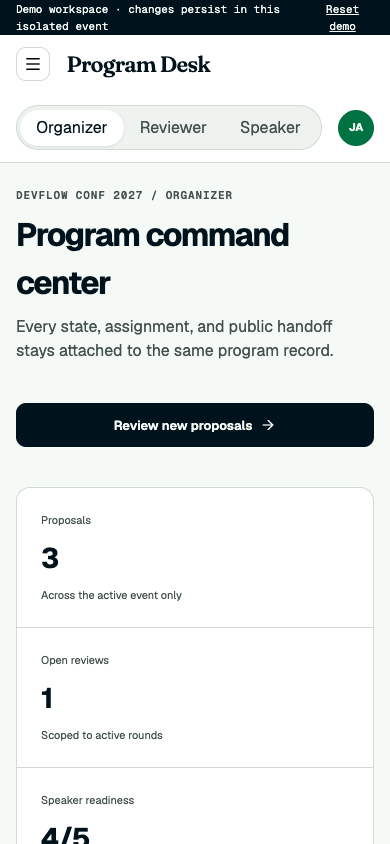
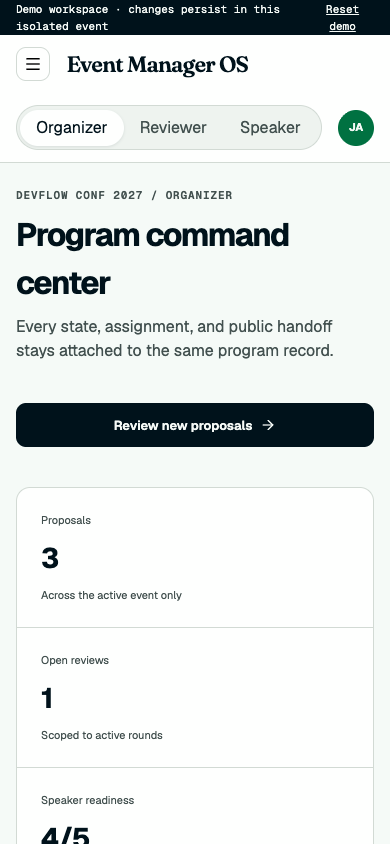
Rename the product to Event Manager OS
Renames every surface a reader meets: the workspace wordmark, the public
footer, page titles and metadata, the API document and calendar PRODID,
submission and sign-in mail, the seeded templates, README, and the judge
walkthrough.

Two identifiers deliberately keep the old name. The D1 database_name is the
real database in Cloudflare and renaming it breaks the binding. The worker
name is the deployed hostname, and changing it would stand up a second
worker at a new URL while the old one kept serving stale code — two live
sites hours before a deadline, with the wrong one still reachable by
anyone holding the existing link.

Changed region(s): [[0.1846, 0.0616, 0.6462, 0.0924]]

diff --git a/src/workspace/PublishPanel.tsx b/src/workspace/PublishPanel.tsx
@@ -40,7 +40,7 @@ export function PublishPanel({ eventSlug }: { eventSlug: string }) {
       <div className="embed-code"><code>{snippet}</code></div><div className="surface-actions"><a className="button button-quiet button-small" href={url} target="_blank" rel="noreferrer">Open public <ExternalLink size={13} /></a>
         <button className="button button-quiet button-small" onClick={() => regenerate(type, name)}><RefreshCcw size={13} /> Regenerate</button></div></article>; })}</section>
     <section className="panel-card embed-settings"><Palette size={18} /><div><strong>Embed configuration is stored per surface</strong><p>These controls are saved with the next generated widget and remain retrievable with its snippet.</p></div><a className="button button-quiet button-small" href={`/api/public/${eventSlug}/feed/sessions`} target="_blank" rel="noreferrer">Open JSON feed <ExternalLink size={13} /></a>
-      <div className="embed-builder-controls"><label>Accent color<input aria-label="Embed accent color" type="color" value={accent} onChange={(event) => setAccent(event.target.value)} /></label><label>Track filter<select value={trackFilter} onChange={(event) => setTrackFilter(event.target.value)}><option value="all">All tracks</option>{resource.data.tracks.map((track) => <option key={track.id} value={track.id}>{track.name}</option>)}</select></label><label className="check-label"><input type="checkbox" checked={showBranding} onChange={(event) => setShowBranding(event.target.checked)} /> Show Program Desk branding</label>
+      <div className="embed-builder-controls"><label>Accent color<input aria-label="Embed accent color" type="color" value={accent} onChange={(event) => setAccent(event.target.value)} /></label><label>Track filter<select value={trackFilter} onChange={(event) => setTrackFilter(event.target.value)}><option value="all">All tracks</option>{resource.data.tracks.map((track) => <option key={track.id} value={track.id}>{track.name}</option>)}</select></label><label className="check-label"><input type="checkbox" checked={showBranding} onChange={(event) => setShowBranding(event.target.checked)} /> Show Event Manager OS branding</label>
         <fieldset><legend>Visible fields</legend>{["title", "speaker", "track", "room", "format", "description"].map((field) => <label className="check-label" key={field}><input type="checkbox" checked={visibleFields.includes(field)} onChange={() => setVisibleFields((current) => current.includes(field) ? current.filter((item) => item !== field) : [...current, field])} /> {field}</label>)}</fieldset></div></section>
   </div>;
 }

diff --git a/src/workspace/CommunicationsPanel.tsx b/src/workspace/CommunicationsPanel.tsx
@@ -24,7 +24,7 @@ export function CommunicationsPanel() {
         <span><strong>{item.name}</strong><small>{item.subject}</small></span><span><StatusChip value={item.delivery_mode} /><small>{item.enabled ? "Enabled" : "Disabled"}</small></span></button>)}</section>
     <section className="panel-card template-editor">{template ? <TemplateEditor key={String(template.id)} template={template} onSaved={async (text) => { setMessage(text); await resource.reload(); }} /> : null}</section>
     <section className="panel-card preview-panel"><header><p className="eyebrow">Live preview</p><h2>{template?.subject.replaceAll("{proposal_title}", "Taming 40-Minute CI").replaceAll("{session_title}", "Taming 40-Minute CI")}</h2></header>
-      <div className="email-preview"><div><span className="avatar">PR</span><span><strong>Program Desk</strong><small>to Priya Raman</small></span></div><p>{String(template?.body ?? "").replaceAll("{speaker_name}", "Priya").replaceAll("{proposal_title}", "Taming 40-Minute CI").replaceAll("{session_title}", "Taming 40-Minute CI").replaceAll("{assignment_count}", "4").replaceAll("{deadline}", "October 15")}</p></div>
+      <div className="email-preview"><div><span className="avatar">PR</span><span><strong>Event Manager OS</strong><small>to Priya Raman</small></span></div><p>{String(template?.body ?? "").replaceAll("{speaker_name}", "Priya").replaceAll("{proposal_title}", "Taming 40-Minute CI").replaceAll("{session_title}", "Taming 40-Minute CI").replaceAll("{assignment_count}", "4").replaceAll("{deadline}", "October 15")}</p></div>
     </section>
     <section className="panel-card outbox-panel"><header className="section-toolbar"><div><p className="eyebrow">Communication log</p><h2>Outbox receipts</h2></div><Send size={18} /></header>
       {resource.data.communications.length ? <div className="outbox-list">{resource.data.communications.map((item) => <article key={item.id}><MessageSquareText size={16} /><span><strong>{item.subject}</strong><small>{item.recipient_email} · {formatDateTime(item.sent_at ?? item.created_at)}</small></span><StatusChip value={item.status} /></article>)}</div> : <EmptyBlock title="Nothing sent yet">Decision notifications, reminders, and broadcasts will appear here.</EmptyBlock>}

diff --git a/src/workspace/IntegrationsPanel.tsx b/src/workspace/IntegrationsPanel.tsx
@@ -111,7 +111,7 @@ export function IntegrationsPanel() {
           {simulation ? <CloudOff size={17} /> : <CheckCircle2 size={17} />}<span><strong>{simulation ? "SIM · local destination mirror" : "LIVE · external delivery"}</strong><small>{simulation ? "Apply records deterministic receipts without contacting Accelevents." : "Apply will use the configured Worker secret."}</small></span>
         </div>
         {preview?.items.length ? <div className="integration-items">{preview.items.map((item) => <article key={`${item.recordType}-${item.sourceId}`}><span className="integration-kind">{item.recordType}</span><span><strong>{item.sourceId}</strong><small>{item.diff.length ? `${item.diff.length} mapped field changes` : "Payload unchanged"}</small></span><StatusChip value={item.action === "skip" ? "no-op" : item.action} />{item.unsupportedFields.length ? <p><TriangleAlert size={13} /> Confirm {item.unsupportedFields.join(", ")} in the destination.</p> : null}</article>)}</div> : null}
-        <footer className="integration-actions"><small>Removed records become reconciliation warnings. Program Desk never silently deletes the destination copy.</small><div><button className="button button-quiet" type="button" disabled={busy || !resource.data.connection} onClick={createPreview}><RefreshCcw size={15} /> Create mutation-free preview</button><button className="button button-accent" type="button" disabled={busy || !applicableRunId} onClick={applyPreview}>Apply approved preview <ArrowRight size={15} /></button></div></footer>
+        <footer className="integration-actions"><small>Removed records become reconciliation warnings. Event Manager OS never silently deletes the destination copy.</small><div><button className="button button-quiet" type="button" disabled={busy || !resource.data.connection} onClick={createPreview}><RefreshCcw size={15} /> Create mutation-free preview</button><button className="button button-accent" type="button" disabled={busy || !applicableRunId} onClick={applyPreview}>Apply approved preview <ArrowRight size={15} /></button></div></footer>
       </section>
     </section>
 

diff --git a/src/screens/PublicEvent.tsx b/src/screens/PublicEvent.tsx
@@ -17,7 +17,7 @@ export function PublicEvent() {
   if (resource.error) return <ErrorBlock message={resource.error} />;
   if (!resource.data) return null;
   return <div className="public-shell">
-    <header className="public-header"><div className="public-brand"><Link className="wordmark" to="/">Program Desk</Link><span /><Link to={`/events/${slug}/agenda`}><strong>{resource.data.event.name}</strong><small>{formatDate(resource.data.event.starts_on)}–{formatDate(resource.data.event.ends_on)} · {resource.data.event.location}</small></Link></div>
+    <header className="public-header"><div className="public-brand"><Link className="wordmark" to="/">Event Manager OS</Link><span /><Link to={`/events/${slug}/agenda`}><strong>{resource.data.event.name}</strong><small>{formatDate(resource.data.event.starts_on)}–{formatDate(resource.data.event.ends_on)} · {resource.data.event.location}</small></Link></div>
       <Link className="button button-quiet button-small" to="/login">Organizer / participant sign in</Link></header>
     <nav className="public-nav" aria-label="Public event pages">{publicNav.map(([id, label]) => <button key={id} aria-current={surface === id ? "page" : undefined} onClick={() => navigate(`/events/${slug}/${id}`)}>{label}</button>)}</nav>
     <main className="public-main">
@@ -28,7 +28,7 @@ export function PublicEvent() {
       {surface === "agenda" ? <AgendaSurface data={resource.data} /> : null}
       {surface === "itinerary" ? <ItinerarySurface data={resource.data} slug={slug} /> : null}
     </main>
-    <footer className="public-footer"><span>Published from one approved Program Desk record.</span><Link to="/">Powered by Program Desk <ExternalLink size={12} /></Link></footer>
+    <footer className="public-footer"><span>Published from one approved Event Manager OS record.</span><Link to="/">Powered by Event Manager OS <ExternalLink size={12} /></Link></footer>
   </div>;
 }
 

diff --git a/src/screens/Workspace.tsx b/src/screens/Workspace.tsx
@@ -126,7 +126,7 @@ export function Workspace() {
     {data.session.isDemo ? <div className="demo-banner"><span><Sparkles size={14} /> Demo workspace · changes persist in this isolated event</span><button type="button" disabled={pending} onClick={resetDemo}>Reset demo</button></div> : null}
     <header className="app-topbar">
       <div className="brand-cluster"><button className="mobile-menu-button" onClick={() => setMobileNav((value) => !value)} aria-label="Open workspace navigation"><Menu size={18} /></button>
-        <Link className="wordmark" to="/app">Program Desk</Link><span className="topbar-rule" />
+        <Link className="wordmark" to="/app">Event Manager OS</Link><span className="topbar-rule" />
         {role === "organizer" && events.length > 1 ? <select className="event-switcher" aria-label="Active event" value={data.session.eventId} onChange={(event) => switchEvent(event.target.value)}>{events.map((event) => <option value={event.id} key={event.id}>{event.name}</option>)}</select> : <span className="event-label">{data.session.eventName}</span>}</div>
       <div className="topbar-actions">{data.session.isDemo ? <div className="role-control" aria-label="Demo persona">{(["organizer", "reviewer", "speaker"] as const).map((persona) => <button key={persona} type="button" disabled={pending} aria-pressed={role === persona} onClick={() => switchRole(persona)}>{persona[0].toUpperCase() + persona.slice(1)}</button>)}</div> : null}
         <button className="identity-button" type="button"><span className="avatar">{data.session.name.split(" ").map((part) => part[0]).join("")}</span><span><strong>{data.session.name}</strong><small>{role}</small></span><ChevronDown size={14} /></button></div>

diff --git a/worker/routes/api-v1.ts b/worker/routes/api-v1.ts
@@ -9,7 +9,7 @@ apiV1.use("*", cors({ origin: "*", allowMethods: ["GET", "OPTIONS"] }));
 const openapi = {
   openapi: "3.1.0",
   info: {
-    title: "Program Desk Public API",
+    title: "Event Manager OS Public API",
     version: "1.0.0",
     description: "Event-scoped, read-only access to the same approved records used by the public program.",
   },
@@ -138,7 +138,7 @@ apiV1.get("/events/:slug/agenda.ics", async (context) => {
   const event = await publishedEvent(context.env.DB, context.req.param("slug"));
   if (!event) return context.json(error("event_not_found", "Published event not found."), 404);
   const sessions = await publishedSessions(context.env.DB, String(event.id));
-  const lines = ["BEGIN:VCALENDAR", "VERSION:2.0", "PRODID:-//Program Desk//Public API v1//EN",
+  const lines = ["BEGIN:VCALENDAR", "VERSION:2.0", "PRODID:-//Event Manager OS//Public API v1//EN",
     `X-WR-CALNAME:${icalEscape(event.name)}`];
   for (const item of sessions.results) lines.push("BEGIN:VEVENT", `UID:${item.id}@programdesk`,
     `DTSTAMP:${icalStamp(item.updated_at)}`, `DTSTART:${icalStamp(item.starts_at)}`, `DTEND:${icalStamp(item.ends_at)}`,

diff --git a/worker/services/seed.ts b/worker/services/seed.ts
@@ -305,7 +305,7 @@ export async function seedProgramWorkspace(
   ];
 
   for (const [templateKey, name, subject, body, mode] of [
-    ["submitter_confirmation", "Submitter confirmation", "We received your DevFlow Conf proposal", "Hi {speaker_name}, your proposal '{proposal_title}' is safely in Program Desk.", "immediate"],
+    ["submitter_confirmation", "Submitter confirmation", "We received your DevFlow Conf proposal", "Hi {speaker_name}, your proposal '{proposal_title}' is safely in Event Manager OS.", "immediate"],
     ["new_submission", "Internal new submission", "New proposal: {proposal_title}", "A new proposal is ready for the organizing team.", "daily_digest"],
     ["reviewer_invitation", "Reviewer invitation", "Join the DevFlow Conf program committee", "Review approximately {estimated_count} proposals by {deadline}.", "manual"],
     ["review_assignments", "Assignments ready", "Your DevFlow Conf reviews are ready", "You have {assignment_count} proposals due {deadline}.", "manual"],

diff --git a/worker/routes/public.ts b/worker/routes/public.ts
@@ -168,7 +168,7 @@ publicRoutes.post("/:slug/proposals", async (context) => {
          (id, event_id, related_type, related_id, recipient_email, subject, body, status, sent_at)
          VALUES (?, ?, 'submission_confirmation', ?, ?, ?, ?, 'sent', CURRENT_TIMESTAMP)`,
       ).bind(createId("com"), event.id, proposalId, session.email, `We received your ${event.name} proposal`,
-        `Hi ${session.name}, your proposal '${parsed.data.title}' is safely in Program Desk.`),
+        `Hi ${session.name}, your proposal '${parsed.data.title}' is safely in Event Manager OS.`),
       context.env.DB.prepare(
         `INSERT INTO communications
          (id, event_id, related_type, related_id, recipient_email, subject, body, status, sent_at)

diff --git a/worker/routes/auth.ts b/worker/routes/auth.ts
@@ -91,7 +91,7 @@ auth.post("/magic-link", async (context) => {
     context.env.DB.prepare(
       `INSERT INTO communications
         (id, event_id, related_type, related_id, recipient_email, subject, body, status, sent_at)
-       VALUES (?, ?, 'auth', ?, ?, 'Your Program Desk sign-in link', ?, 'sent', CURRENT_TIMESTAMP)`,
+       VALUES (?, ?, 'auth', ?, ?, 'Your Event Manager OS sign-in link', ?, 'sent', CURRENT_TIMESTAMP)`,
     ).bind(
       createId("com"),
       membership.event_id,

diff --git a/index.html b/index.html
@@ -5,9 +5,9 @@
     <meta name="viewport" content="width=device-width, initial-scale=1.0" />
     <meta
       name="description"
-      content="Program Desk carries an event program from proposal through review, scheduling, and publication."
+      content="Event Manager OS carries an event program from proposal through review, scheduling, and publication."
     />
-    <title>Program Desk</title>
+    <title>Event Manager OS</title>
   </head>
   <body>
     <div id="root"></div>

diff --git a/src/lib/api.ts b/src/lib/api.ts
@@ -18,6 +18,6 @@ export async function apiRequest<T>(path: string, init?: RequestInit): Promise<T
     },
   });
   const payload = (await response.json().catch(() => ({}))) as T & { error?: string };
-  if (!response.ok) throw new ApiError(payload.error ?? "Program Desk could not complete that request.", response.status);
+  if (!response.ok) throw new ApiError(payload.error ?? "Event Manager OS could not complete that request.", response.status);
   return payload;
 }

diff --git a/worker/index.test.ts b/worker/index.test.ts
@@ -14,7 +14,7 @@ function testBindings(databaseResult: { ok: number } | null = { ok: 1 }) {
   };
 }
 
-describe("Program Desk API boundary", () => {
+describe("Event Manager OS API boundary", () => {
   it("reports a healthy persisted service", async () => {
     const response = await app.request("/api/health", undefined, testBindings());
     const body = await response.json();
